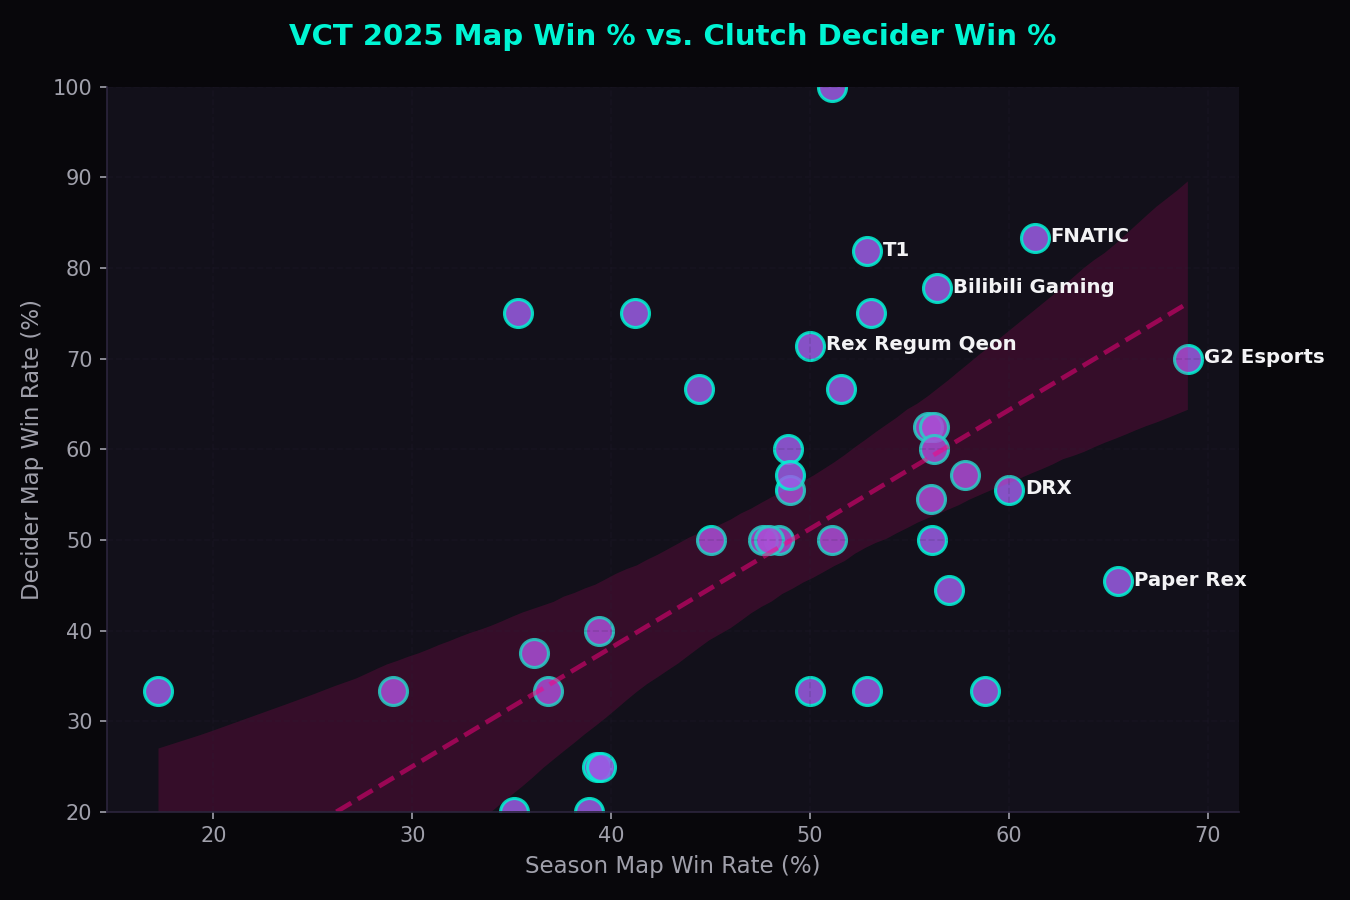
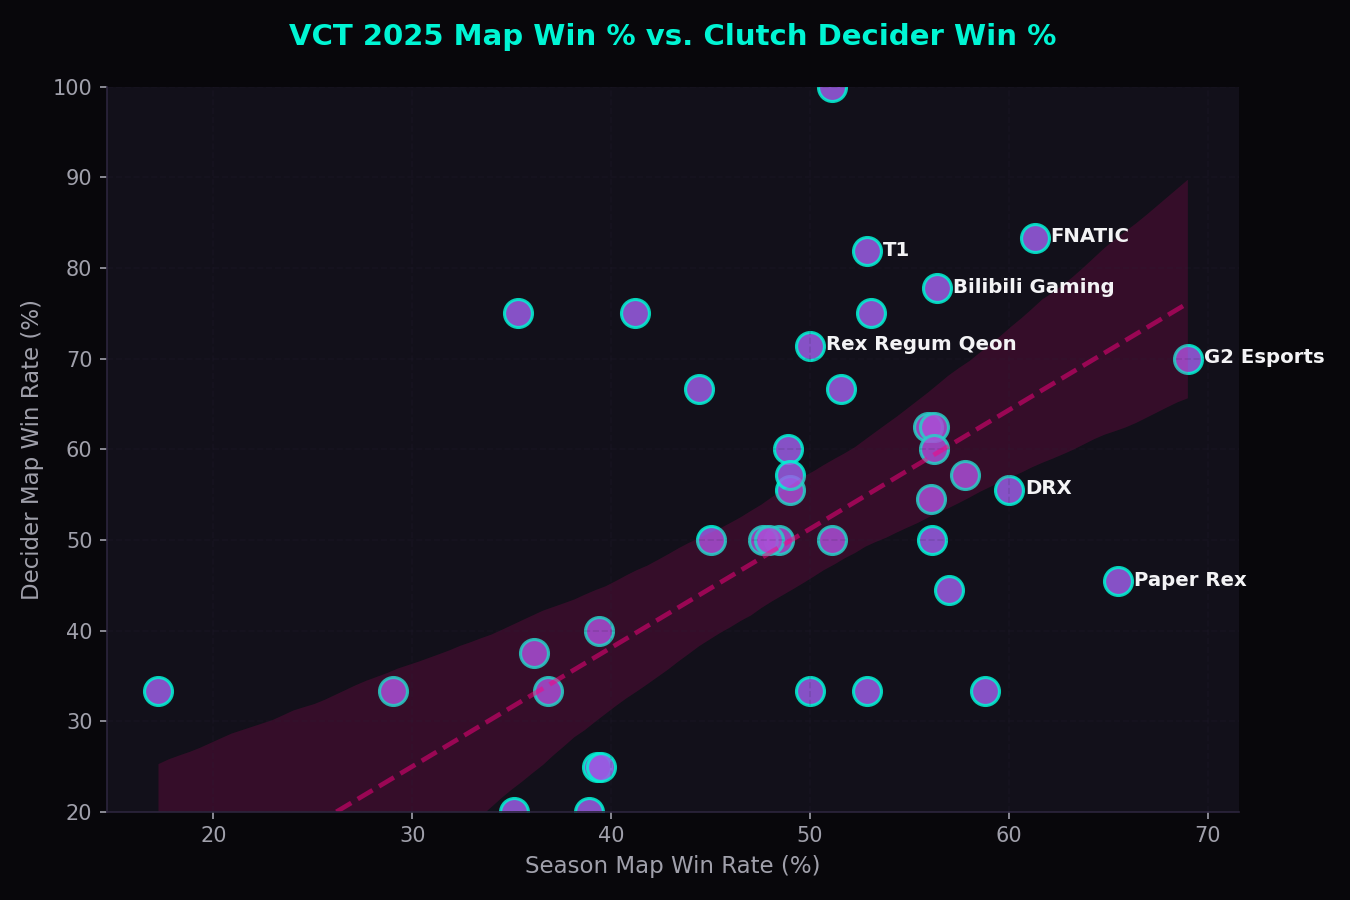
feat: optimize retro portfolio and esports dashboards for mobile responsiveness

diff --git a/vct2025_presentation.html b/vct2025_presentation.html
@@ -634,6 +634,85 @@
       transition: width 0.3s ease;
       box-shadow: 0 0 10px var(--accent-neon);
     }
+
+    @media (max-width: 968px) {
+      .slide-layout-split {
+        grid-template-columns: 1fr;
+        gap: 30px;
+        align-items: start;
+      }
+      .slide {
+        padding: 40px;
+      }
+    }
+
+    @media (max-width: 768px) {
+      header {
+        padding: 12px 20px;
+      }
+      .presentation-title {
+        display: none;
+      }
+      .btn-control {
+        padding: 6px 10px;
+        font-size: 12px;
+      }
+      #toggleDrawerBtn, #fullscreenBtn {
+        font-size: 11px;
+      }
+      .slide {
+        padding: 20px 20px 80px 20px;
+        justify-content: flex-start;
+        overflow-y: auto;
+      }
+      h1 {
+        font-size: 2rem;
+      }
+      h2 {
+        font-size: 1.4rem;
+      }
+      .title-banner {
+        padding: 30px 20px;
+        margin-top: 20px;
+      }
+      .stats-overview-grid {
+        grid-template-columns: repeat(2, 1fr) !important;
+        gap: 15px;
+      }
+      .visualization-container {
+        max-height: 280px;
+      }
+      footer {
+        padding: 12px 20px;
+      }
+      .slide-drawer {
+        width: 100%;
+        right: -100%;
+      }
+    }
+
+    @media (max-width: 480px) {
+      h1 {
+        font-size: 1.5rem;
+      }
+      .start-button {
+        padding: 12px 24px;
+        font-size: 1rem;
+      }
+      .stats-overview-grid {
+        grid-template-columns: 1fr !important;
+      }
+      .stat-number {
+        font-size: 2rem;
+      }
+      .highlight-card {
+        padding: 20px;
+      }
+      table th, table td {
+        padding: 8px 10px;
+        font-size: 12px;
+      }
+    }
   </style>
 </head>
 <body>

diff --git a/index.css b/index.css
@@ -90,7 +90,7 @@ header {
   top: 0;
   left: 0;
   width: 100%;
-  z-index: 100;
+  z-index: 99999 !important;
   background: var(--bg-primary);
   border-bottom: var(--border-width) solid var(--text-primary);
   padding: 1rem 0;
@@ -661,10 +661,94 @@ footer {
 @media (max-width: 768px) {
   .nav-links {
     display: none;
+    flex-direction: column;
+    position: absolute;
+    top: 100%;
+    left: 0;
+    width: 100%;
+    background: #0a0b12 !important;
+    padding: 2rem;
+    border: var(--border-width) solid var(--text-primary);
+    border-top: none;
+    gap: 1.5rem;
+    z-index: 1000 !important;
+  }
+
+  .nav-links.open {
+    display: flex;
+  }
+
+  .nav-links a {
+    display: block;
+    text-align: center;
+    padding: 1rem;
+    width: 100%;
+  }
+
+  .nav-links a:hover, .nav-links a.active {
+    transform: none;
+    box-shadow: none;
   }
   
   .menu-toggle {
     display: block;
+  }
+
+  .avatar-image {
+    max-width: 100%;
+    height: auto;
+  }
+}
+
+@media (max-width: 480px) {
+  body {
+    font-size: 16px;
+  }
+
+  .section-title {
+    font-size: 1.4rem;
+    margin-bottom: 2rem;
+  }
+
+  .hero-text h1 {
+    font-size: 1.4rem !important;
+    line-height: 1.5;
+  }
+
+  .hero-subtitle {
+    font-size: 0.75rem;
+  }
+
+  .hero-description {
+    font-size: 1rem;
+    margin-bottom: 2rem;
+  }
+
+  .btn {
+    font-size: 0.75rem;
+    padding: 0.8rem 1.2rem;
+  }
+
+  .pixel-box {
+    padding: 1.2rem;
+  }
+
+  .job-card {
+    padding: 1.5rem;
+  }
+
+  .contact-container {
+    padding: 1.5rem;
+  }
+  
+  .job-header {
+    flex-direction: column;
+    align-items: flex-start;
+  }
+  
+  .job-meta {
+    text-align: left;
+    margin-top: 0.5rem;
   }
 }
 

diff --git a/vct2026_dashboard.html b/vct2026_dashboard.html
@@ -566,6 +566,70 @@
     .footer-socials a:hover {
       color: var(--accent-neon);
     }
+
+    @media (max-width: 768px) {
+      header {
+        padding: 12px 20px;
+      }
+      .presentation-title {
+        display: none;
+      }
+      main {
+        padding: 15px;
+        gap: 20px;
+      }
+      .summary-grid {
+        grid-template-columns: repeat(2, 1fr);
+        gap: 12px;
+      }
+      .summary-card {
+        padding: 15px;
+      }
+      .summary-value {
+        font-size: 24px;
+      }
+      .summary-icon-wrapper {
+        width: 40px;
+        height: 40px;
+      }
+      .tab-btn {
+        padding: 8px 12px;
+        font-size: 15px;
+      }
+      .info-card {
+        padding: 20px;
+      }
+      .info-card h2 {
+        font-size: 20px;
+      }
+      .filter-wrapper {
+        flex-direction: column;
+        align-items: stretch;
+        gap: 15px;
+      }
+      .search-input-container {
+        max-width: 100%;
+      }
+      table th, table td {
+        padding: 8px 10px;
+        font-size: 12px;
+      }
+      footer.dashboard-footer {
+        flex-direction: column;
+        gap: 15px;
+        text-align: center;
+        padding: 20px;
+      }
+    }
+
+    @media (max-width: 480px) {
+      .summary-grid {
+        grid-template-columns: 1fr;
+      }
+      .roster-grid {
+        grid-template-columns: 1fr;
+      }
+    }
   </style>
 </head>
 <body>

diff --git a/script.js b/script.js
@@ -103,21 +103,16 @@ document.addEventListener('DOMContentLoaded', () => {
   const menuToggle = document.querySelector('.menu-toggle');
   const navLinksList = document.querySelector('.nav-links');
 
-  if (menuToggle) {
+  if (menuToggle && navLinksList) {
     menuToggle.addEventListener('click', () => {
-      if (navLinksList.style.display === 'flex') {
-        navLinksList.style.display = 'none';
-      } else {
-        navLinksList.style.display = 'flex';
-        navLinksList.style.flexDirection = 'column';
-        navLinksList.style.position = 'absolute';
-        navLinksList.style.top = '100%';
-        navLinksList.style.left = '0';
-        navLinksList.style.width = '100%';
-        navLinksList.style.background = 'rgba(14, 18, 30, 0.95)';
-        navLinksList.style.padding = '2rem';
-        navLinksList.style.borderBottom = '1px solid var(--border-light)';
-      }
+      navLinksList.classList.toggle('open');
+    });
+
+    // Close mobile menu when a link is clicked
+    navLinksList.querySelectorAll('a').forEach(link => {
+      link.addEventListener('click', () => {
+        navLinksList.classList.remove('open');
+      });
     });
   }
 });

diff --git a/inventory.html b/inventory.html
@@ -5,8 +5,37 @@
   <meta name="viewport" content="width=device-width, initial-scale=1.0">
   <meta name="description" content="Weerapong Srirueang | Equipped Inventory - Project Showcase.">
   <title>Inventory | Weerapong S.</title>
-  <link rel="stylesheet" href="index.css">
+  <link rel="stylesheet" href="index.css?v=1.1">
   <script src="https://unpkg.com/lucide@latest"></script>
+  <style>
+    @media (max-width: 968px) {
+      .inventory-layout {
+        grid-template-columns: 1fr !important;
+        gap: 2rem !important;
+      }
+      
+      #inventory-screen {
+        padding-top: 6rem !important;
+        padding-left: 1rem;
+        padding-right: 1rem;
+      }
+    }
+    
+    @media (max-width: 480px) {
+      .item-grid {
+        grid-template-columns: repeat(2, 1fr) !important;
+      }
+      
+      .inventory-slot svg {
+        width: 32px !important;
+        height: 32px !important;
+      }
+      
+      #inspect-image-wrapper {
+        height: 140px !important;
+      }
+    }
+  </style>
 </head>
 <body>
 

diff --git a/index.html b/index.html
@@ -5,7 +5,7 @@
   <meta name="viewport" content="width=device-width, initial-scale=1.0">
   <meta name="description" content="Weerapong Srirueang | 8-Bit Retro Game Style Customer Science Analyst & Data Analyst Portfolio.">
   <title>Weerapong Srirueang | Retro 8-Bit Analyst Portfolio</title>
-  <link rel="stylesheet" href="index.css">
+  <link rel="stylesheet" href="index.css?v=1.1">
   <!-- Lucide Icons CDN -->
   <script src="https://unpkg.com/lucide@latest"></script>
 </head>
@@ -352,7 +352,7 @@
     </div>
   </footer>
 
-  <script src="script.js"></script>
+  <script src="script.js?v=1.1"></script>
   <script>
     // Initialize Lucide Icons
     lucide.createIcons();
